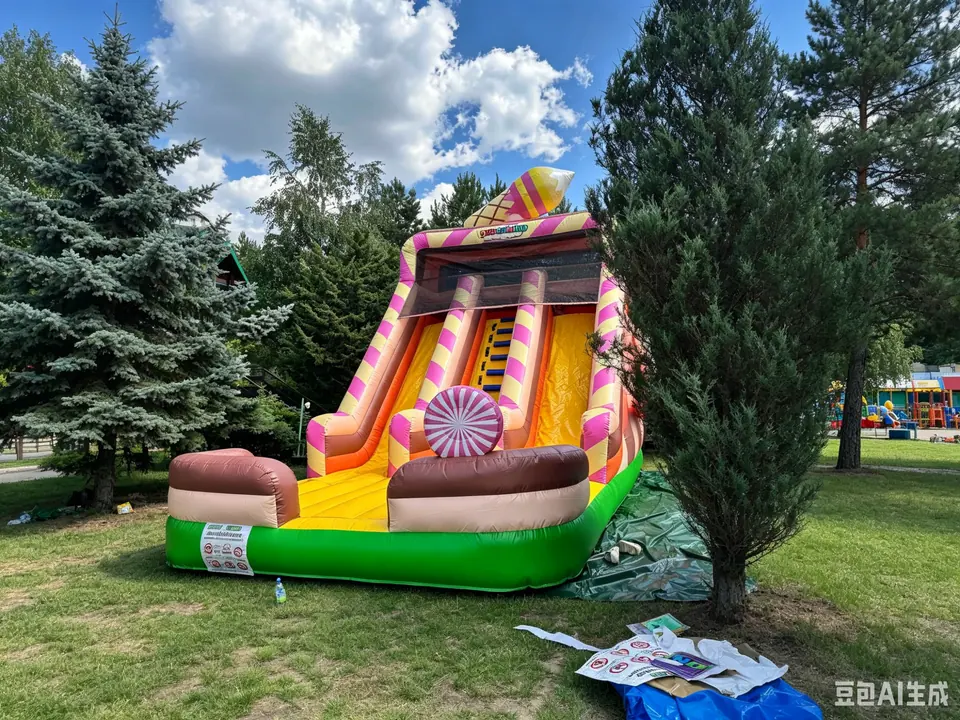
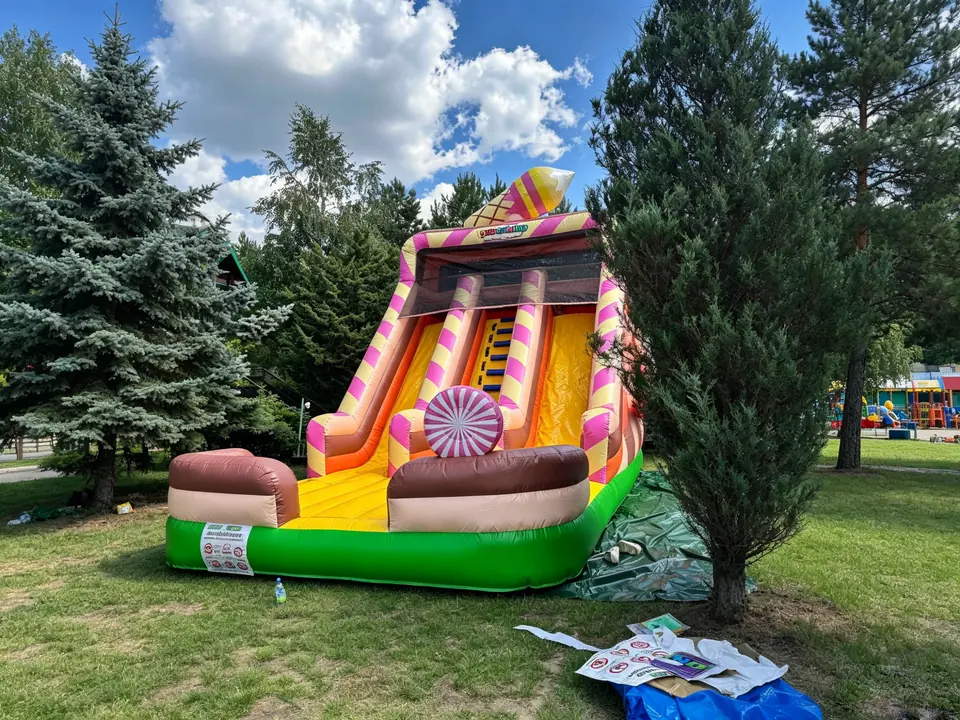
Refine project cards and add Poland case reference

Changed region(s): [[0.8438, 0.9167, 1.0, 1.0]]

diff --git a/src/data/case-studies.ts b/src/data/case-studies.ts
@@ -10,12 +10,12 @@ export type CaseStudy = {
   buyerReference?: { country: string; image: string };
 };
 
-const image = (slug: string) => `/assets/case-studies/projects/${slug}.webp?v=2`;
+const image = (slug: string) => `/assets/case-studies/projects/${slug}.webp?v=3`;
 
 export const caseStudies: CaseStudy[] = [
   { id: 'argentina-soccer-slide', title: 'Soccer-themed inflatable slide', country: 'Argentina', productType: 'Inflatable slide and jumping bouncer', application: 'Kids playground project', segment: 'bounce-slide', image: image('argentina-soccer-slide'), alt: 'Soccer-themed Argentina inflatable slide and jumping bouncer at a kids playground' },
   { id: 'france-water-slide', title: 'Commercial water slide', country: 'France', productType: 'Heavy-duty inflatable water slide', application: 'Commercial recreation project', segment: 'water-park', image: image('france-water-slide'), alt: 'Commercial heavy-duty inflatable water slide project in France' },
-  { id: 'candy-house-combo', title: 'Candy-house bounce and water-slide combo', country: 'Project market private', productType: 'Inflatable castle and water slide', application: 'Professional rental project', segment: 'bounce-slide', image: image('candy-house-combo'), alt: 'Candy-house inflatable castle and water-slide combo for a professional rental project' },
+  { id: 'candy-house-combo', title: 'Candy-house bounce and water-slide combo', country: 'Poland', productType: 'Inflatable castle and water slide', application: 'Commercial outdoor playground project', segment: 'bounce-slide', image: image('candy-house-combo'), alt: 'Candy-house inflatable castle and water-slide combo installed in Poland' },
   { id: 'uk-princess-bounce-house', title: 'Princess bounce house', country: 'United Kingdom', productType: 'Commercial pink bouncy castle', application: 'Rental business project', segment: 'bounce-slide', image: image('uk-princess-bounce-house'), alt: 'Commercial pink princess bouncy castle project in the United Kingdom' },
   { id: 'croatia-dual-lane-combo', title: 'Dual-lane bounce house combo', country: 'Croatia', productType: 'Commercial bounce house with slide', application: 'Outdoor playground project', segment: 'bounce-slide', image: image('croatia-dual-lane-combo'), alt: 'Commercial dual-lane bounce house and slide project in Croatia' },
   { id: 'usa-mario-combo', title: 'Mario-themed bounce house combo', country: 'United States', productType: 'Bounce house and slide', application: 'Party-rental project', segment: 'bounce-slide', image: image('usa-mario-combo'), alt: 'Mario-themed inflatable bounce house and slide project in the United States' },

diff --git a/src/styles/global.css b/src/styles/global.css
@@ -553,7 +553,8 @@ h3 { font-size: 1.25rem; }
 .button-whatsapp:hover { border-color: #117b46; background: #117b46; }
 .case-feature-grid, .case-preview-grid { display: grid; grid-template-columns: repeat(3, 1fr); gap: 16px; }
 .case-feature, .case-preview-card, .case-card { overflow: hidden; background: var(--white); border: 1px solid var(--line); }
-.case-feature img, .case-preview-card img, .case-card > img { display: block; width: 100%; aspect-ratio: 4 / 3; object-fit: contain; background: var(--surface); }
+.case-feature img, .case-preview-card img { display: block; width: 100%; aspect-ratio: 4 / 3; object-fit: contain; background: var(--surface); }
+.case-card > img { display: block; width: 100%; height: auto; aspect-ratio: auto; object-fit: initial; background: transparent; }
 .case-feature > div, .case-preview-card > div { padding: 18px; }
 .case-feature p, .case-preview-card p, .case-country { margin: 0 0 7px; color: var(--teal); font-size: .74rem; font-weight: 800; letter-spacing: .09em; text-transform: uppercase; }
 .case-feature h2 { margin: 0 0 7px; font-size: 1.35rem; }
@@ -567,9 +568,8 @@ h3 { font-size: 1.25rem; }
 .case-card-copy h3 { margin: 0 0 7px; font-size: 1.18rem; }
 .case-card-copy > p:not(.case-country) { margin: 0; color: var(--ink); font-weight: 700; }
 .case-card-copy > span { display: block; margin-top: 7px; color: var(--muted); font-size: .84rem; }
-.case-buyer-reference { display: grid; justify-items: start; gap: 4px; margin: 14px 0 0; padding: 9px; border: 1px solid var(--line); background: var(--surface); }
-.case-buyer-reference img { display: block; width: min(100%, 220px); height: auto; object-fit: contain; background: var(--white); }
-.case-buyer-reference figcaption { color: var(--muted); font-size: .72rem; font-weight: 700; }
+.case-buyer-reference { display: block; width: 82px; margin: 0 0 12px; padding: 3px; border: 1px solid var(--line); background: var(--surface); }
+.case-buyer-reference img { display: block; width: 100%; height: auto; background: var(--white); }
 .case-card-copy .text-link { display: inline-block; margin-top: 15px; font-size: .82rem; }
 .case-reference-layout { display: grid; grid-template-columns: .8fr 1.2fr; gap: 64px; align-items: start; }
 .case-reference-layout > div > p:not(.eyebrow) { max-width: 500px; color: var(--muted); line-height: 1.7; }
